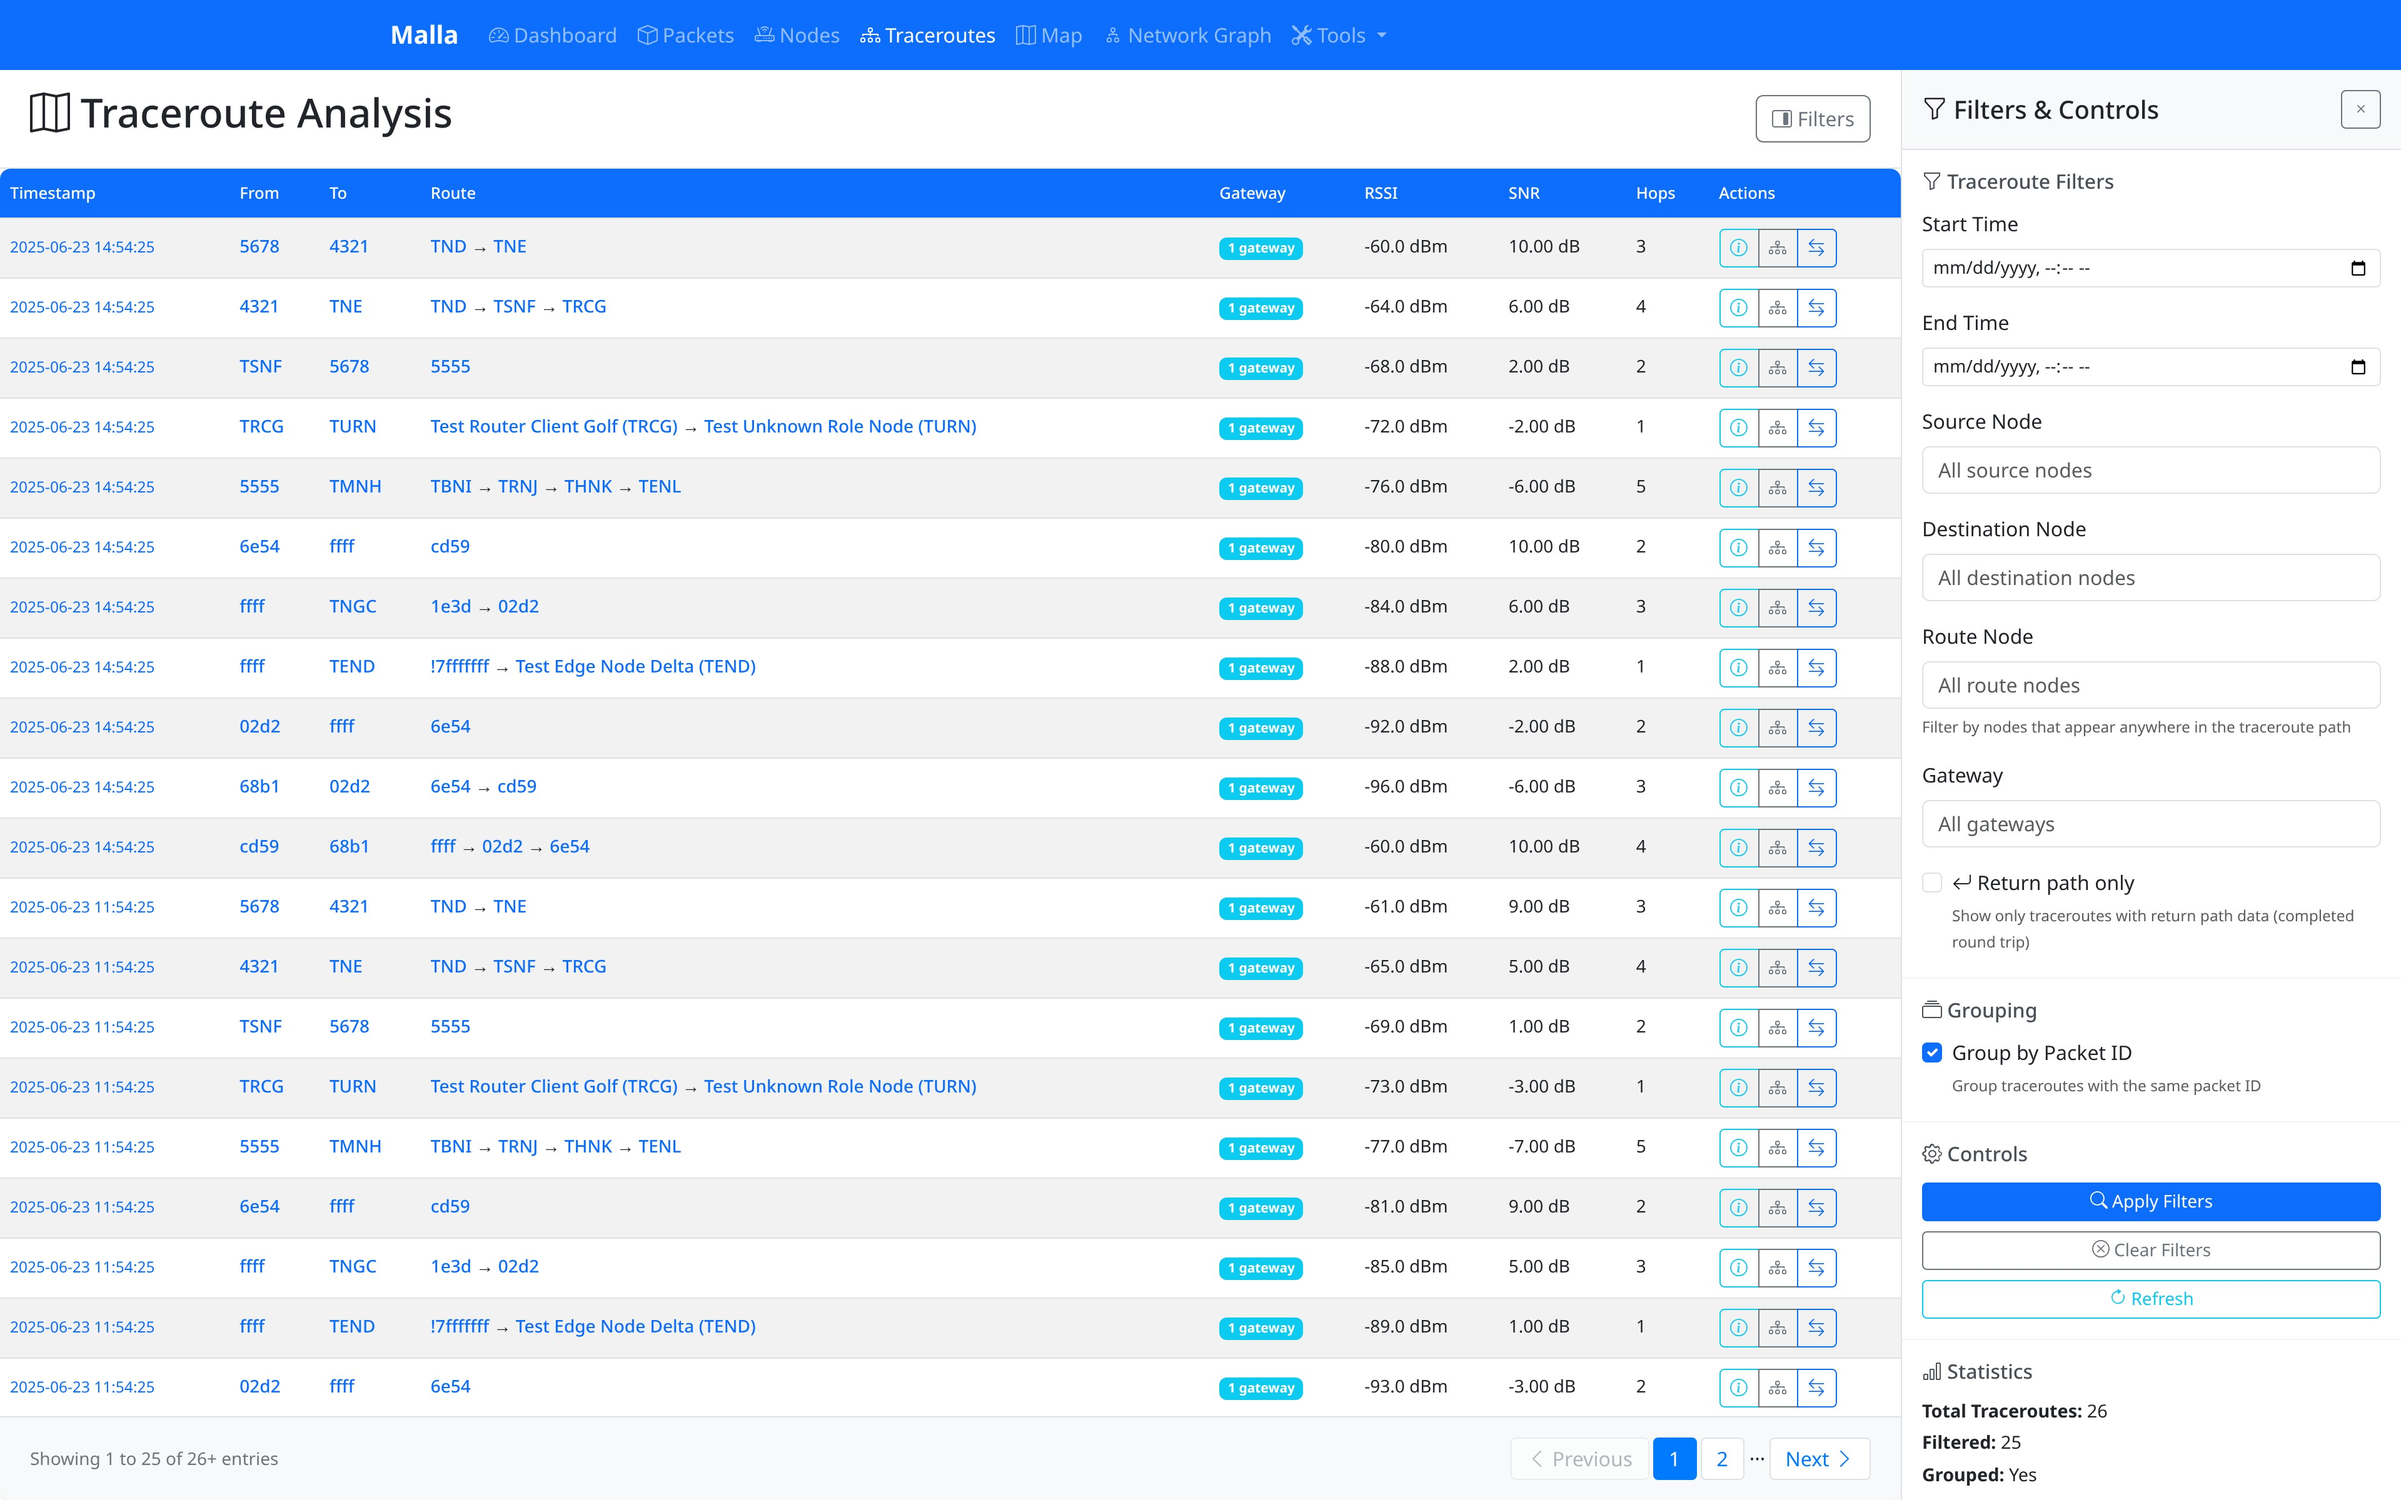
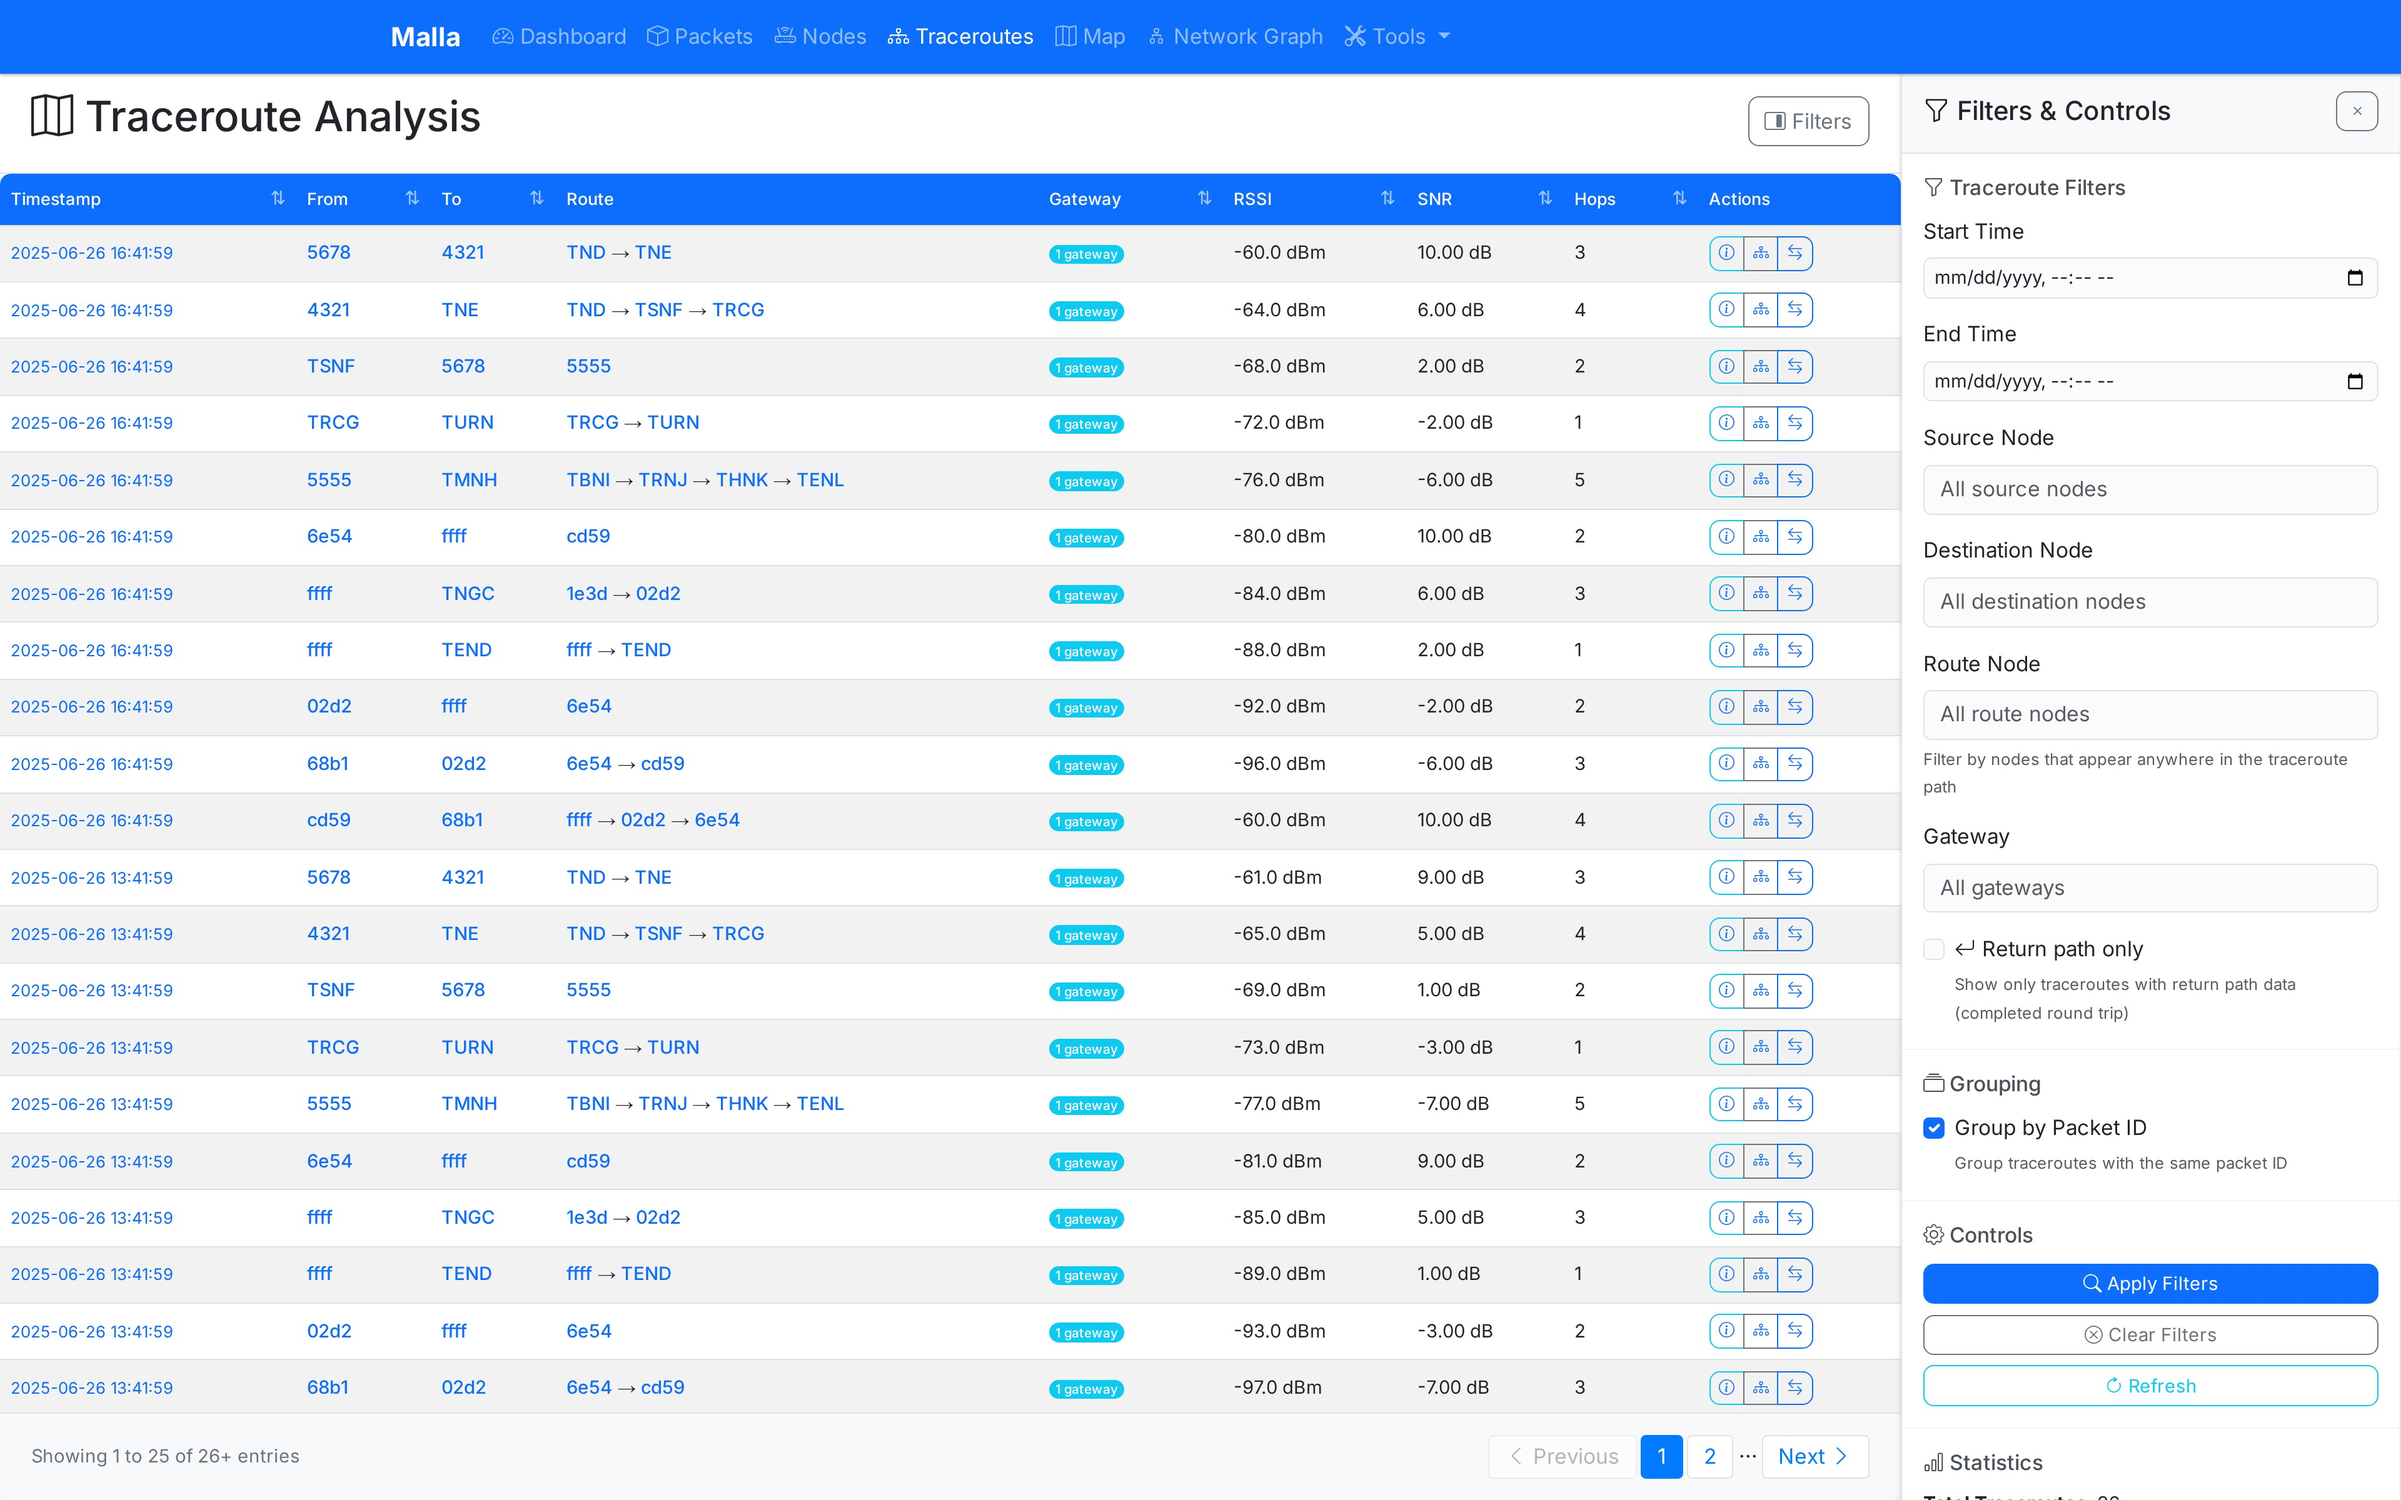
fix: enhance traceroute data display consistency
- Updated the API traceroute data function to ensure consistent display of node names by preferring provided short names or falling back to hexadecimal short formats.
- This change improves the user interface by standardizing how node names are presented in traceroute data.

diff --git a/src/malla/routes/api_routes.py b/src/malla/routes/api_routes.py
@@ -1516,12 +1516,22 @@ def api_traceroute_data():
 
             # Final fallback: use from -> to
             if not route_nodes:
+                # Use short names (with hex fallback) to ensure consistency in UI display
                 if from_node_id:
                     route_nodes.append(from_node_id)
-                    route_names.append(from_node_name)
+                    # Prefer provided short name or fall back to hex short format
+                    route_names.append(
+                        from_node_short
+                        or node_short_names.get(
+                            from_node_id, f"{from_node_id:08x}"[-4:]
+                        )
+                    )
                 if to_node_id and to_node_id != from_node_id:
                     route_nodes.append(to_node_id)
-                    route_names.append(to_node_name)
+                    route_names.append(
+                        to_node_short
+                        or node_short_names.get(to_node_id, f"{to_node_id:08x}"[-4:])
+                    )
 
             # Handle gateway display for both grouped and individual packets
             gateway_display = tr.get("gateway_id", "N/A")
